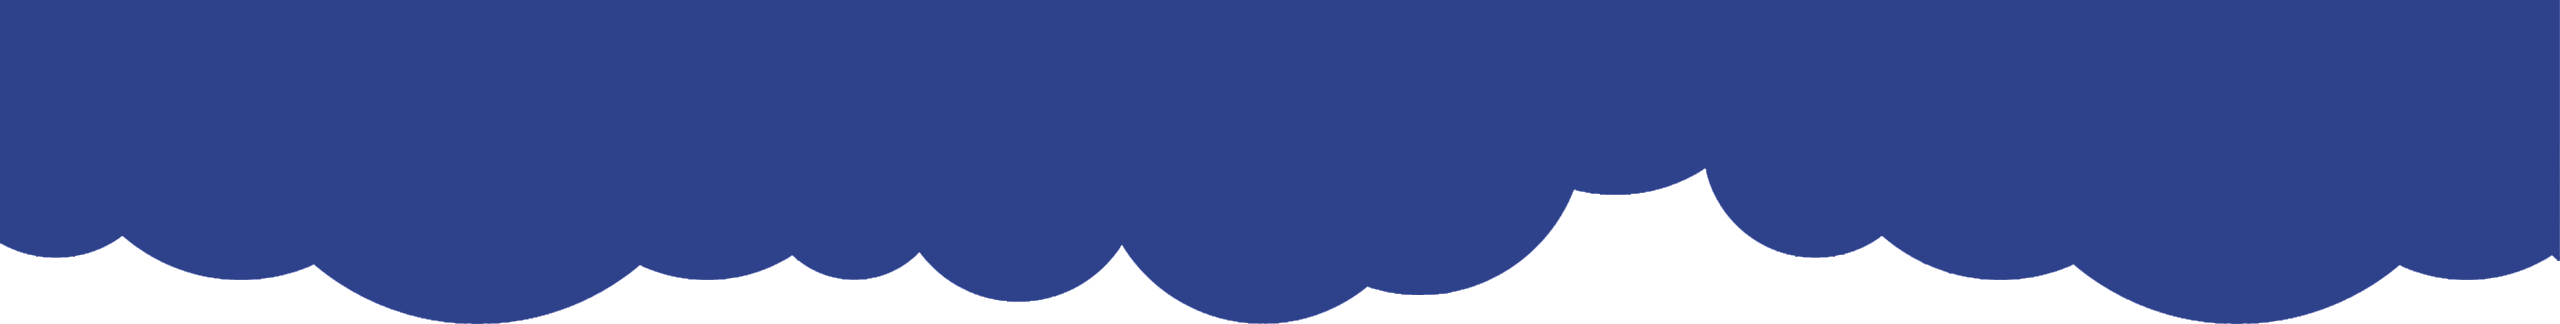
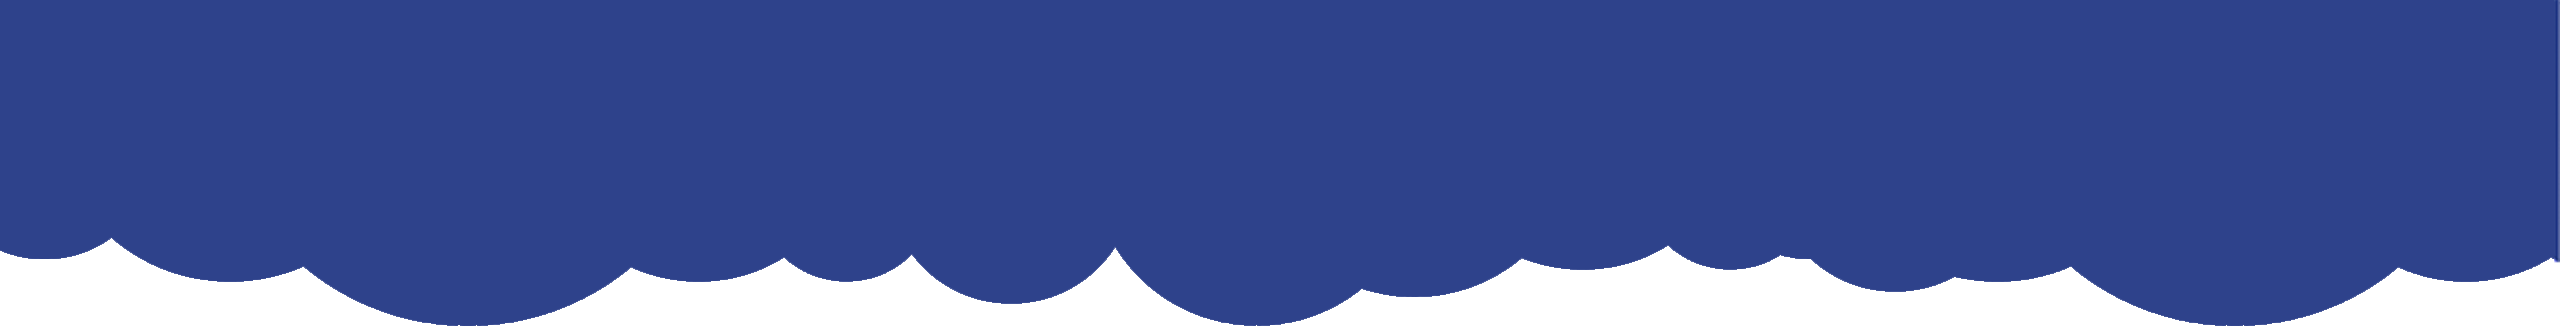
style: update query screen resolution

diff --git a/bayu_utomo-fe-2020.html b/bayu_utomo-fe-2020.html
@@ -95,59 +95,15 @@
     <section id="page-two">
       <div id="cloud-container">
         <div class="cloud one"></div>
-        <div class="cloud two animated infinite bounce slower delay-1s"></div>
+        <div class="cloud two animated infinite shake slower delay-1s"></div>
       </div>
 
       <div class="content">
         <div class="title">
           <h1>Mengapa DClouds?</h1>
         </div>
-      </div>
-
-      <div class="slide owl-carousel">
-        <div class="slide-item">
-          <div class="slide-logo">
-
-          </div>
-          <div class="slide-text">
-            <p>SSD Super Cepat</p>
-            <span>vel eros donec ac odio tempor orci dapibus ultrices in</span>
-          </div>
-        </div>
-        <div class="slide-item">
-          <div class="slide-item">
-            <div class="slide-logo">
-  
-            </div>
-            <div class="slide-text">
-              <p>Cloud Backup</p>
-              <span>vel eros donec ac odio tempor orci dapibus ultrices in</span>
-            </div>
-          </div>
-        </div>
-        <div class="slide-item">
-          <div class="slide-item">
-            <div class="slide-logo">
-  
-            </div>
-            <div class="slide-text">
-              <p>Unlimited Bandwith</p>
-              <span>vel eros donec ac odio tempor orci dapibus ultrices in</span>
-            </div>
-          </div>
-        </div>
-        <div class="slide-item">
-          <div class="slide-item">
-            <div class="slide-logo">
-  
-            </div>
-            <div class="slide-text">
-              <p>Instant Deploy</p>
-              <span>vel eros donec ac odio tempor orci dapibus ultrices in</span>
-            </div>
-          </div>
-        </div>
-        <div class="slide-item">
+        
+        <div class="slide owl-carousel">
           <div class="slide-item">
             <div class="slide-logo">
   
@@ -157,19 +113,64 @@
               <span>vel eros donec ac odio tempor orci dapibus ultrices in</span>
             </div>
           </div>
-        </div>
-        <div class="slide-item">
           <div class="slide-item">
-            <div class="slide-logo">
-  
+            <div class="slide-item">
+              <div class="slide-logo">
+    
+              </div>
+              <div class="slide-text">
+                <p>Cloud Backup</p>
+                <span>vel eros donec ac odio tempor orci dapibus ultrices in</span>
+              </div>
             </div>
-            <div class="slide-text">
-              <p>Pasionate Support</p>
-              <span>vel eros donec ac odio tempor orci dapibus ultrices in</span>
+          </div>
+          <div class="slide-item">
+            <div class="slide-item">
+              <div class="slide-logo">
+    
+              </div>
+              <div class="slide-text">
+                <p>Unlimited Bandwith</p>
+                <span>vel eros donec ac odio tempor orci dapibus ultrices in</span>
+              </div>
+            </div>
+          </div>
+          <div class="slide-item">
+            <div class="slide-item">
+              <div class="slide-logo">
+    
+              </div>
+              <div class="slide-text">
+                <p>Instant Deploy</p>
+                <span>vel eros donec ac odio tempor orci dapibus ultrices in</span>
+              </div>
+            </div>
+          </div>
+          <div class="slide-item">
+            <div class="slide-item">
+              <div class="slide-logo">
+    
+              </div>
+              <div class="slide-text">
+                <p>SSD Super Cepat</p>
+                <span>vel eros donec ac odio tempor orci dapibus ultrices in</span>
+              </div>
+            </div>
+          </div>
+          <div class="slide-item">
+            <div class="slide-item">
+              <div class="slide-logo">
+    
+              </div>
+              <div class="slide-text">
+                <p>Pasionate Support</p>
+                <span>vel eros donec ac odio tempor orci dapibus ultrices in</span>
+              </div>
             </div>
           </div>
         </div>
       </div>
+
     </section>
   </main>
 

diff --git a/bayu_utomo-fe-2020.css b/bayu_utomo-fe-2020.css
@@ -174,7 +174,7 @@ nav.item ul li a:hover {
   font-family: BOLéD;
   font-style: normal;
   font-weight: normal;
-  font-size: 3.5rem;
+  font-size: 3rem;
   color: #FFFFFF;
   cursor: default;
 }
@@ -453,7 +453,6 @@ main section .banner:last-child {
 }
 
 #cloud-container {
-  align-self: baseline;
   width: 100%;
 }
 
@@ -461,32 +460,25 @@ main section .banner:last-child {
   z-index: -1;
   position: absolute;
   width: 140%;
-  height: 100%;
+  height: 200px;
+  left: -20%;
+  top: -90px;
 }
 
 .cloud.one {
-  position: absolute;
-  left: -20%;
-  top: -270px;
   background-image: url("images/cloud1.png");
-  background-position: center;
   background-repeat: no-repeat;
-  background-size: contain;
-  -moz-transform: scaleX(-1);
-  -o-transform: scaleX(-1);
-  -webkit-transform: scaleX(-1);
-  transform: scaleX(-1);
+  background-size: cover;
+  background-position-x: center;
 }
 
 .cloud.two {
-  position: absolute;
   z-index: -2;
-  right: -20%;
-  top: -250px;
+  top: -90px;
   background-image: url("images/cloud2.png");
-  background-position: center;
   background-repeat: no-repeat;
-  background-size: contain;
+  background-size: cover;
+  background-position-x: center;
 }
 
 #page-two {
@@ -495,17 +487,10 @@ main section .banner:last-child {
 
 .content {
   display: flex;
-  justify-content: flex-start;
+  flex-wrap: wrap;
+  align-items: center;
   align-content: center;
-  margin-top: 20%;
-}
-
-main section .content:first-child {
-  margin-left: 0;
-}
-
-main section .content:last-child {
-  margin-left: auto;
+  height: 100%;
 }
 
 .slide-item {
@@ -570,8 +555,7 @@ main section .content:last-child {
 .owl-nav {
   position: absolute;
   right: 0;
-  top: -10%;
-  font-size: 1.5rem;
+  font-size: 2rem;
   color: #3D509D;
 }
 
@@ -648,13 +632,39 @@ main section .content:last-child {
     height: 60px;
     border-radius: 60px;
     font-size: 1.5rem;
+  }  
+}
+
+@media only screen and (min-width: 1800px) {
+  .cloud {
+    height: 450px;
+    top: -160px;
+  }
+
+  .cloud.two {
+    top: -150px;
   }
 }
 
-@media only screen and (min-width: 1280px) {
+@media only screen and (min-width: 1440px) and (max-width: 1799px) {
+  .cloud {
+    height: 300px;
+    top: -150px;
+  }
+
+  .cloud.two {
+    top: -140px;
+  }
 }
 
-@media only screen and (min-width: 800px) and (max-width: 1279px) {
+@media only screen and (min-width: 1201px) and (max-width: 1439px) {
+  .cloud {
+    height: 250px;
+    top: -100px;
+  }
+}
+
+@media only screen and (min-width: 800px) and (max-width: 1200px) {
 }
 
 @media only screen and (min-width: 640px) and (max-width: 799px) {
@@ -713,5 +723,10 @@ main section .content:last-child {
   .image-banner {
     height: 250px;
     background-position: center;
+  }
+
+  .content {
+    width: 80%;
+    margin: 0 auto;
   }
 }
